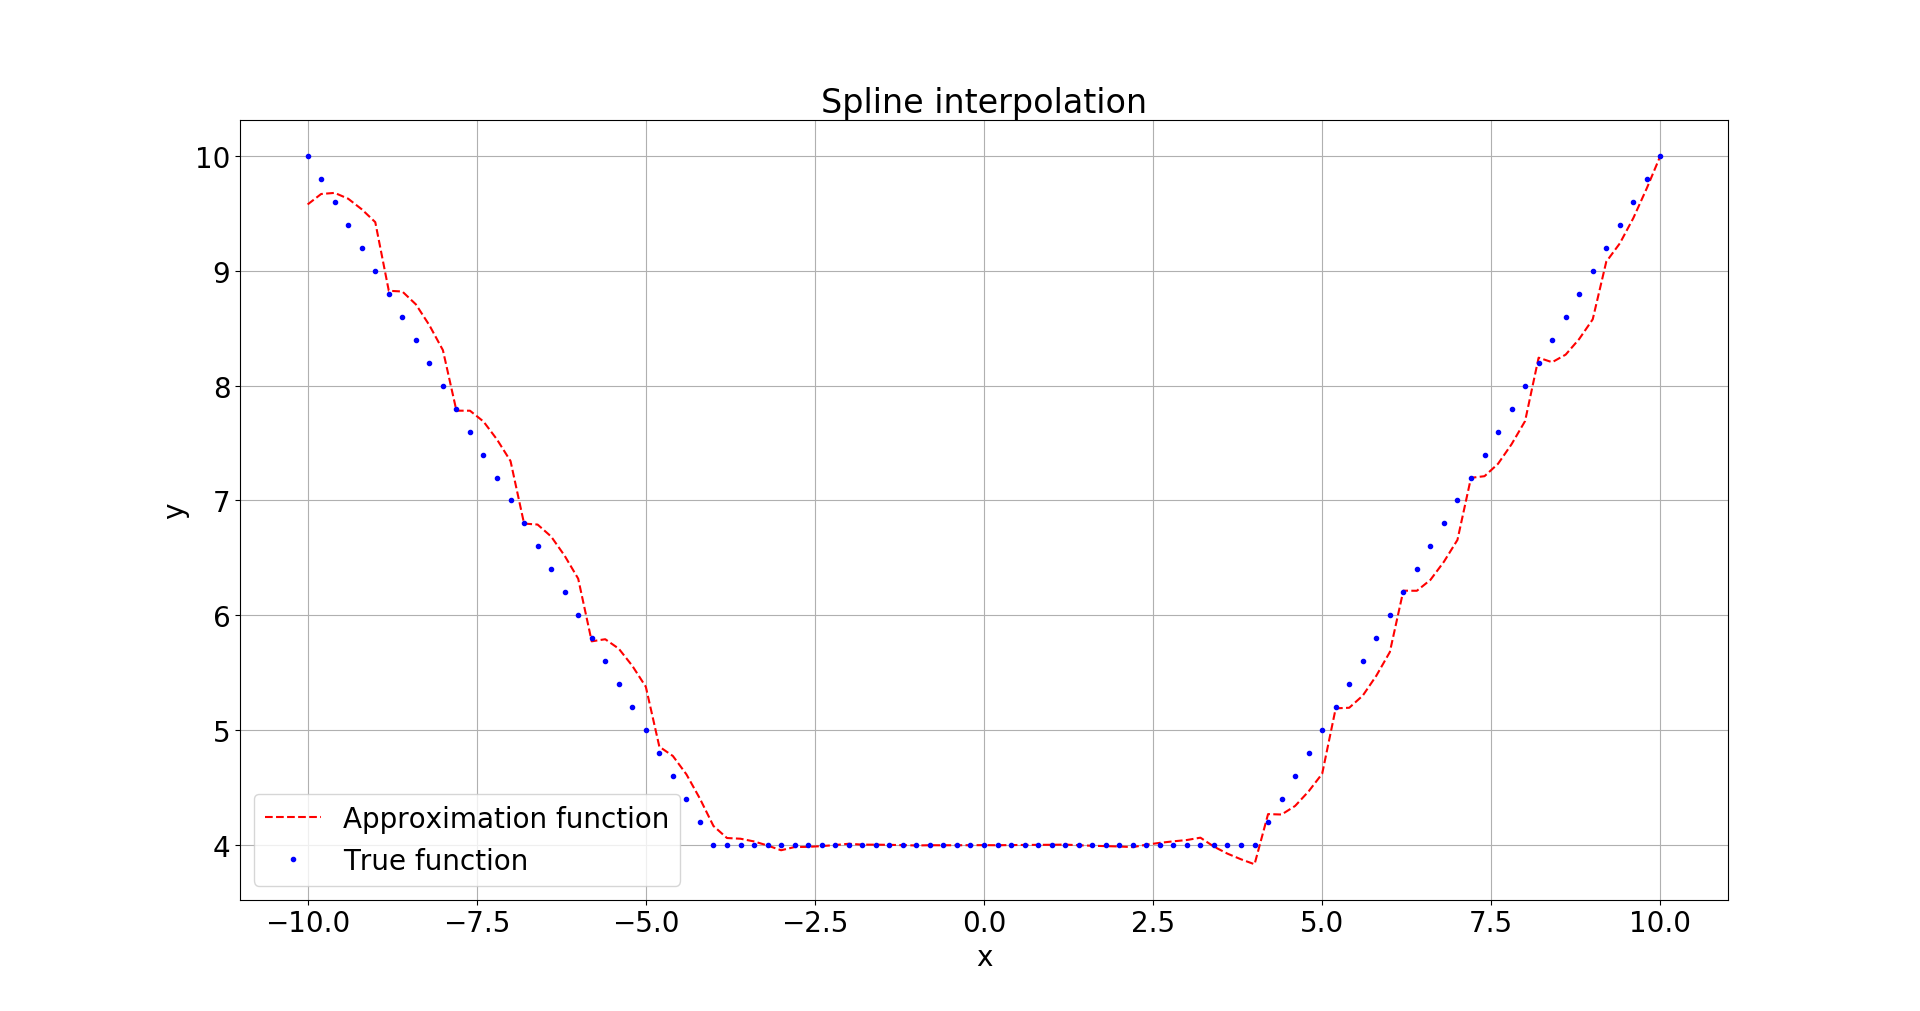
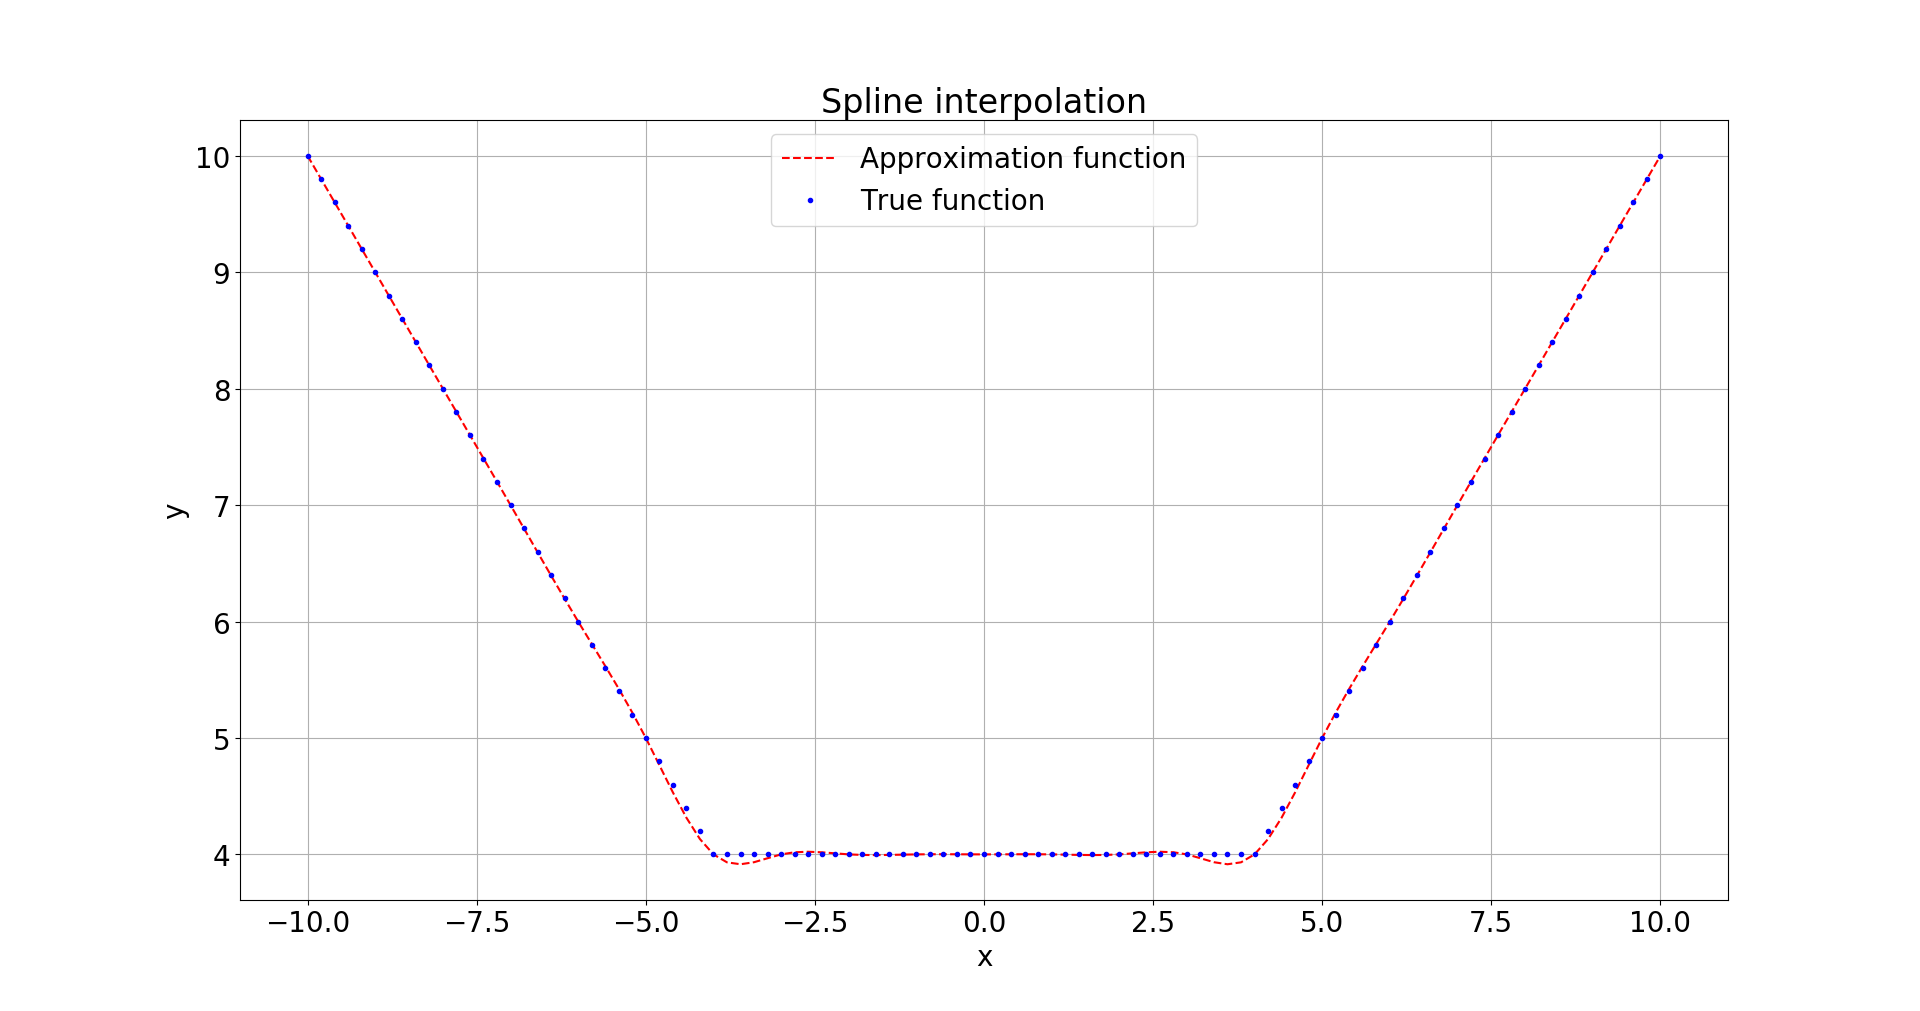
lab 5 spline fix

diff --git a/lab/lab-5/py/all.py b/lab/lab-5/py/all.py
@@ -274,26 +274,25 @@ def spline_interpolation(n: int, a0: float, b0: float) -> None:
 
     a = np.zeros((n + 1, n + 1))
     b = np.zeros(n + 1)
-    for i in range(n+1):
-        if i == 0:
-            a[i, i] = 1
-        elif i == n:
+
+    for i in range(n + 1):
+        if i == 0 or i == n:
             a[i, i] = 1
         else:
             a[i, i - 1] = h[i - 1] / 6
             a[i, i] = (h[i - 1] + h[i]) / 3
-            a[i, i + 1] = h[i]/6
-            b[i] = (f(x[i + 1]) - f(x[i])) / h[i] + (f(x[i]) - f(x[i - 1])) / h[i - 1]
+            a[i, i + 1] = h[i] / 6
+            b[i] = (f(x[i + 1]) - f(x[i])) / h[i] - (f(x[i]) - f(x[i - 1])) / h[i - 1]
 
     m = np.linalg.solve(a, b)
 
     def f_sol(x0):
-        for i in range(1, n + 1):
-            if x[i] >= x0 >= x[i - 1]:
-                return m[i - 1] * ((x[i] - x0)**3) / (6 * h[i - 1]) + \
-                    m[i] * ((x[i] - x0)**3) / (6 * h[i - 1]) + \
-                    (f(x[i - 1]) - m[i - 1] * (h[i - 1]**2) / 6) * (x[i] - x0) / h[i - 1] + \
-                    (f(x[i]) - m[i] * (h[i - 1]**2) / 6) * (x0 - x[i - 1]) / h[i - 1]
+        for i in range(n):
+            if x[i + 1] >= x0 >= x[i]:
+                return m[i] * ((x[i + 1] - x0)**3) / (6 * h[i]) + \
+                    m[i + 1] * ((x0 - x[i])**3) / (6 * h[i]) + \
+                    (f(x[i]) - m[i] * h[i]**2 / 6) * (x[i + 1] - x0) / h[i] + \
+                    (f(x[i + 1]) - m[i + 1] * h[i]**2 / 6) * (x0 - x[i]) / h[i]
 
     x1 = np.linspace(a0, b0, 100 + 1)
     y = [f_sol(xi) for xi in x1]
